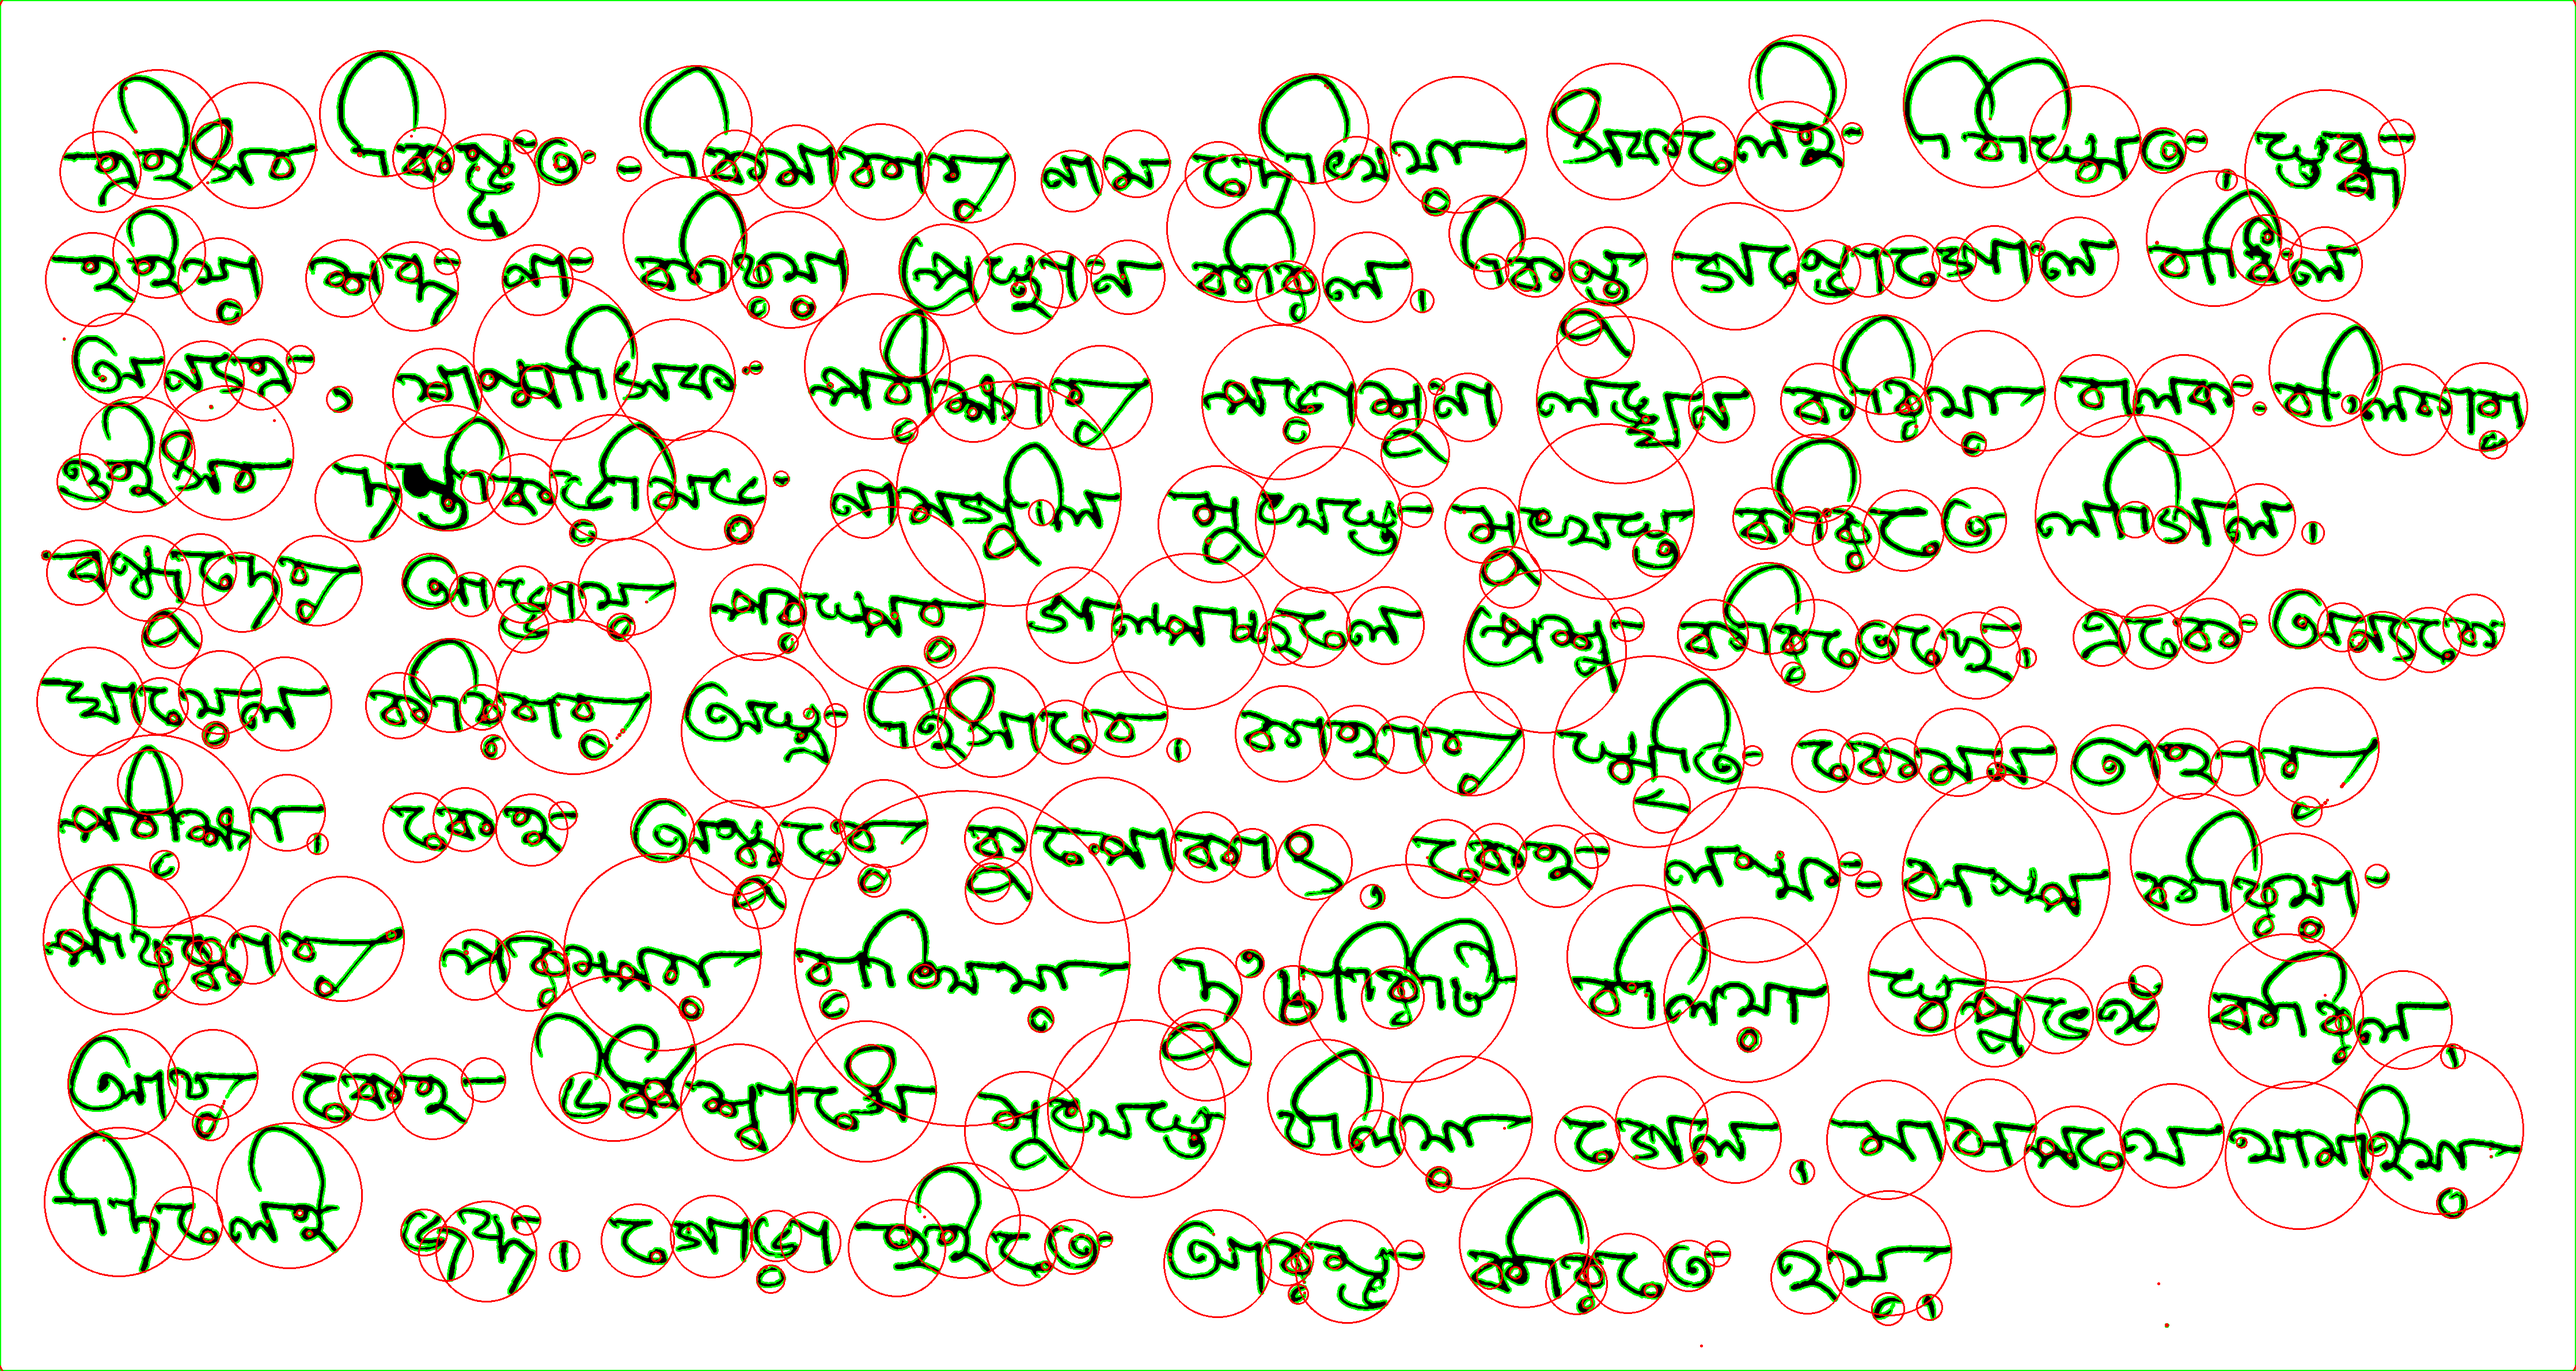
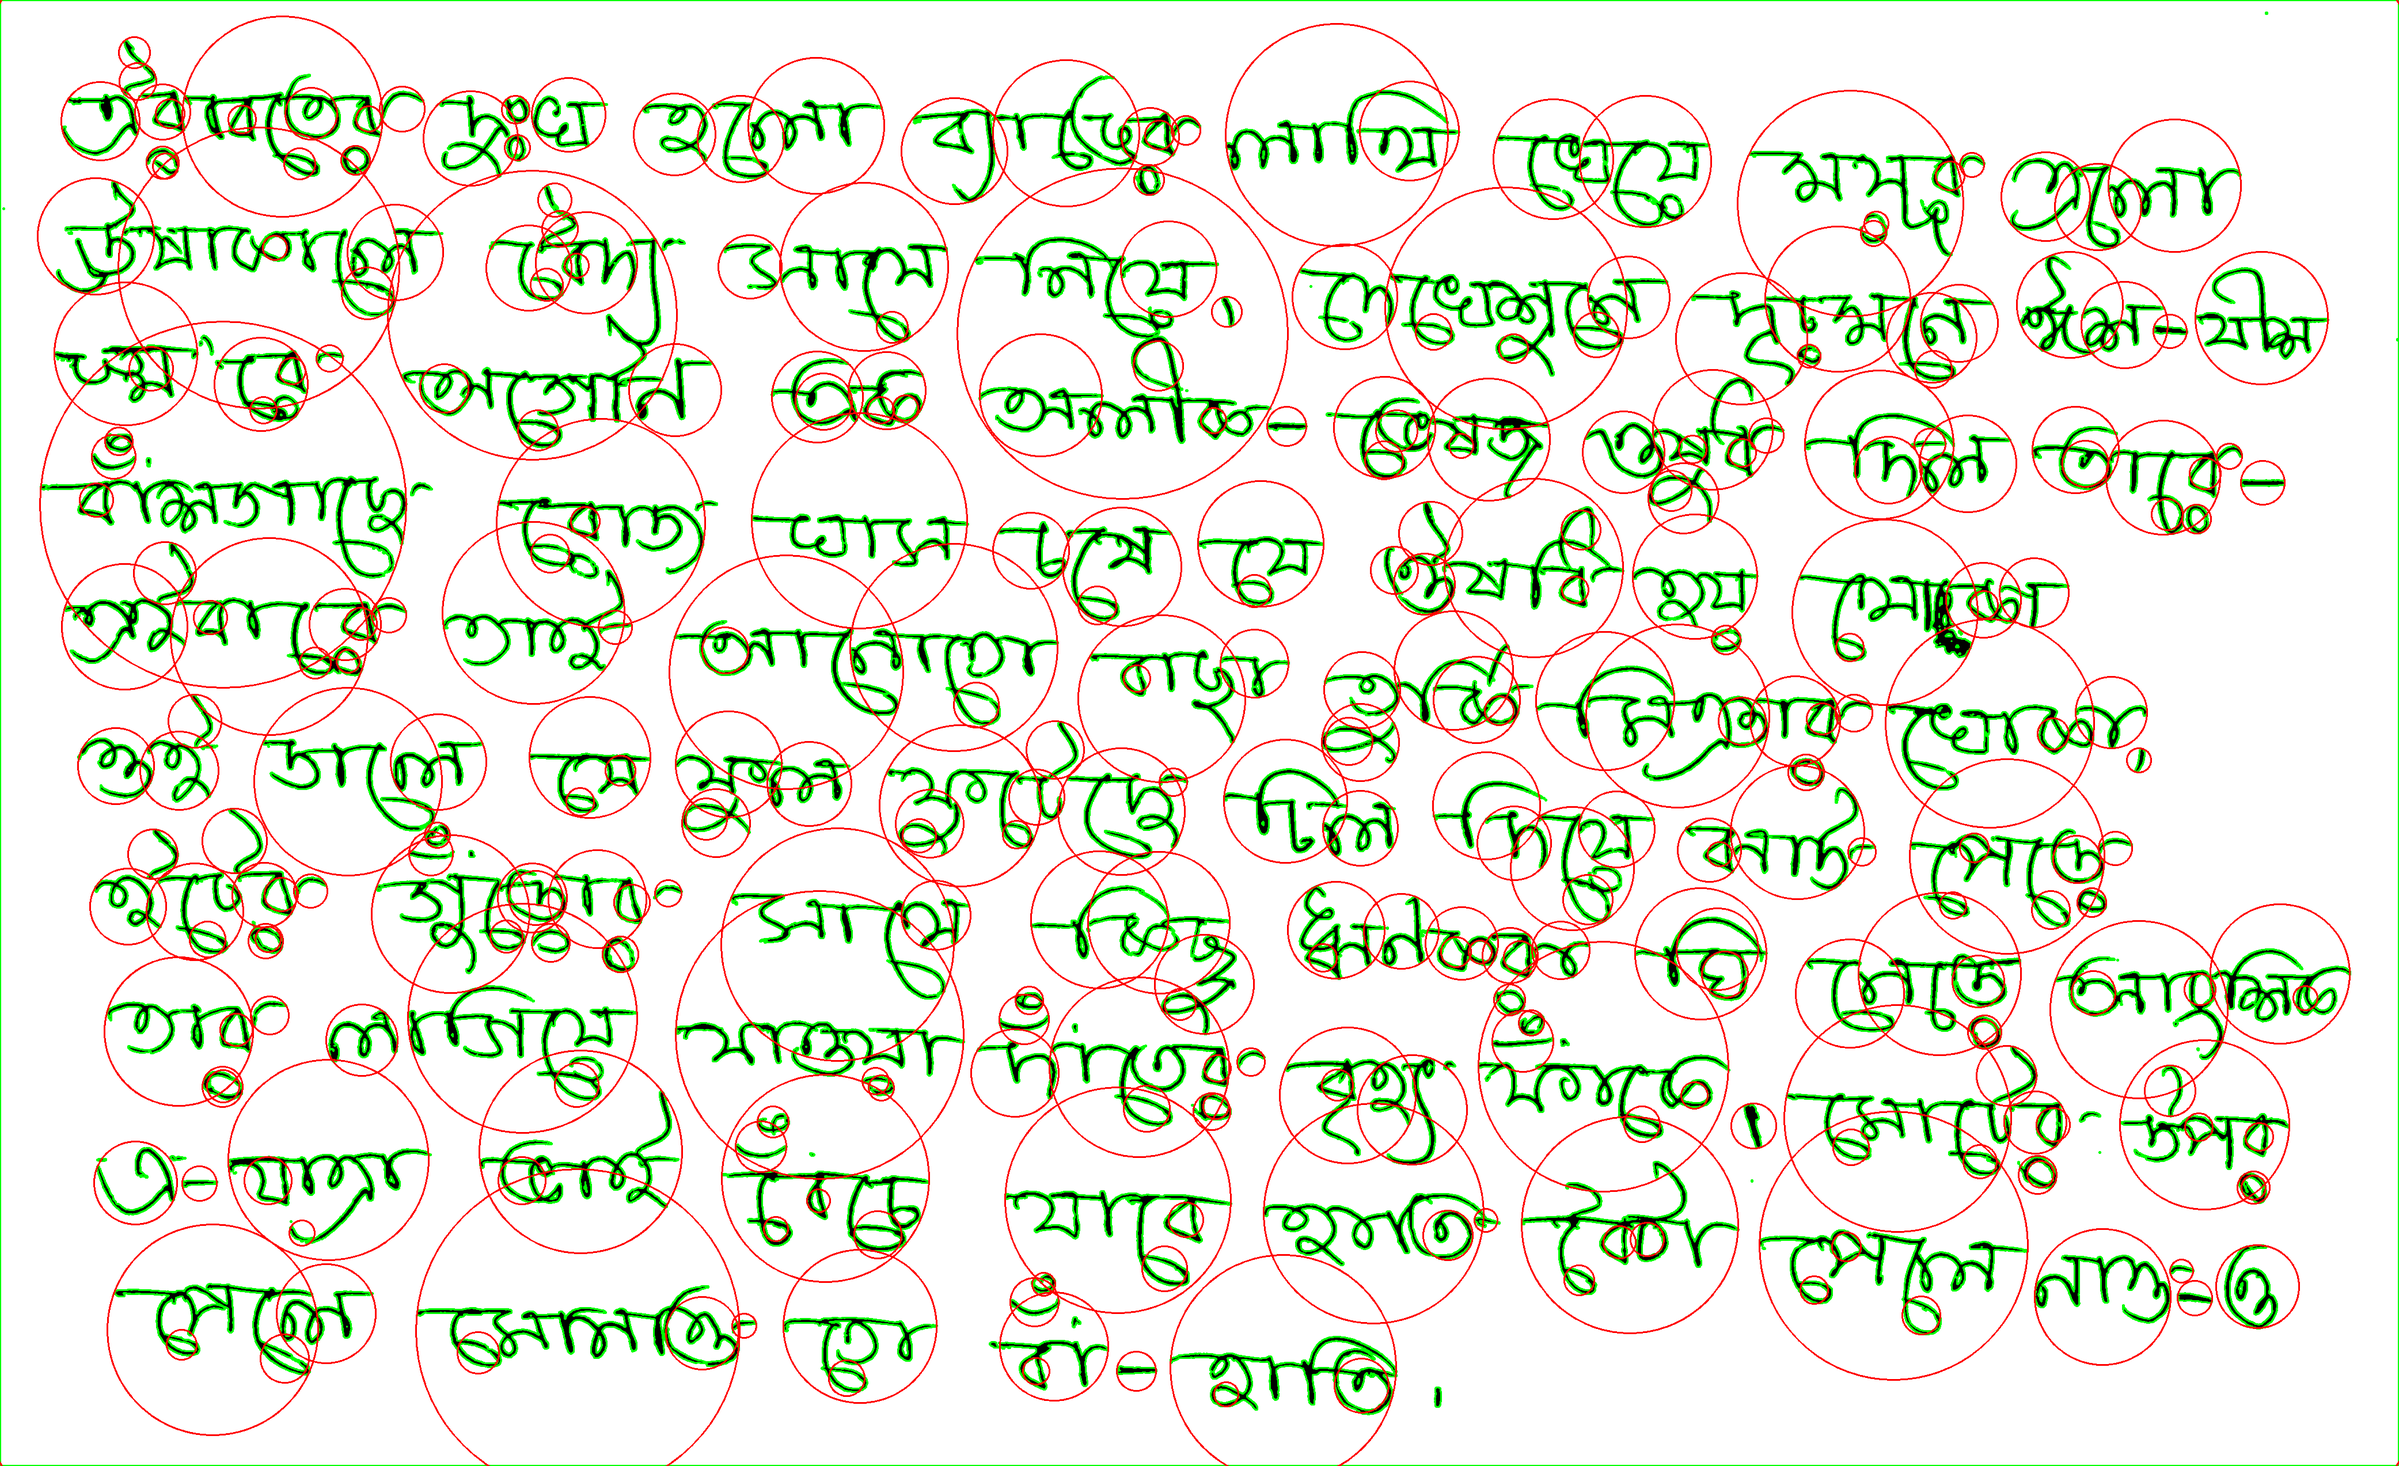
size, r-ratio, c-ratio done, features and cog baki

diff --git a/find_min_bounding_circles_and_rectangles.py b/find_min_bounding_circles_and_rectangles.py
@@ -1,5 +1,6 @@
 import cv2 as cv
 import numpy as np
+import math
 
 def display_image(curimg, imgname):
     resized_image = cv.resize(curimg, (600, 700), interpolation=cv.INTER_AREA)
@@ -11,16 +12,6 @@ def display_image(curimg, imgname):
 def find_contours(img):
     contours, hierarchy  = cv.findContours(img, cv.RETR_CCOMP, cv.CHAIN_APPROX_NONE)
     print("Number of contours = ", len(contours))
-    new_contours = []
-    # TOT_AREA = len(img) * len(img[0])
-    # for e in contours:
-    #     x,y,w,h = cv.boundingRect(e)
-    #     # print("x = ", x , " y = ", y, " w = ", w, " h = ", h, "e = ", e)
-    #     comp_ratio = (w*h) / TOT_AREA
-    #     print("comp_Ratio = ", comp_ratio)
-    #     if comp_ratio >= 0.00005 and comp_ratio <= 0.08:
-    #         new_contours.append([x,y,w,h])
-    # contours = np.array(new_contours)
     res_img = cv.cvtColor(img, cv.COLOR_GRAY2RGB)
     cv.drawContours(res_img, contours, -1, (0,255,0), 2)
     cv.imwrite("contours_drawn_img.png", res_img)
@@ -32,17 +23,30 @@ contours_arr, contours_img = find_contours(bin_image)
 
 rect_img = np.array(contours_img)
 
+widths = np.array([])
+heights = np.array([])
+rratios = np.array([])
+
 for e in contours_arr:
     cnt = e
 
     # compute straight bounding rectangle
     x,y,w,h = cv.boundingRect(cnt)
     # rect_img = cv.drawContours(rect_img,[cnt],0,(255,255,0),2)
-    rect_img = cv.rectangle(rect_img,(x,y),(x+w,y+h),(255,0,0),2)
+
+    # print("w*h = ", w*h, "contour area = ", cv.contourArea(e))
+    if w*h >= 500:
+        rect_img = cv.rectangle(rect_img,(x,y),(x+w,y+h),(255,0,0),2)
+        widths = np.append(widths, w)
+        heights = np.append(heights, h)
+        rratios = np.append(rratios, cv.contourArea(e)/(w*h))
 
 cv.imwrite("rectangles_drawn_over_contours.png", rect_img)
 
 circ_img = np.array(contours_img)
+
+radiuses = np.array([])
+cratios = np.array([])
 
 for e in contours_arr:
     cnt = e
@@ -51,7 +55,17 @@ for e in contours_arr:
     
     center = (int(x_axis),int(y_axis)) 
     radius = int(radius) 
-    
-    cv.circle(circ_img,center,radius,(0,0,255),2) 
+    if radius >= 20:
+        cv.circle(circ_img,center,radius,(0,0,255),2) 
+        radiuses = np.append(radiuses, radius)
+        cratios = np.append(rratios, cv.contourArea(e)/(math.pi*radius*radius))
 
 cv.imwrite("circles_drawn_over_contours.png", circ_img)
+
+print("median height = ", np.median(heights))
+print("median width = ", np.median(widths))
+print("median radius = ", np.median(radiuses))
+
+print("median rectangularity ratio = ", np.median(rratios))
+print("median circularity ratio = ", np.median(cratios))
+

diff --git a/cropping_image.py b/cropping_image.py
@@ -10,7 +10,7 @@ def display_image(curimg, imgname):
     cv.destroyAllWindows()
 
 
-raw_img = cv.imread(r'C:\Users\DARPAN\Documents\College\6th Semester\BSc Project (DSE6)\Data\350_0018.png')
+raw_img = cv.imread(r'C:\Users\DARPAN\Documents\College\6th Semester\BSc Project (DSE6)\Data\347_0007.png')
 
 img_copy = np.array(raw_img)
 img_copy2 = np.array(raw_img)
